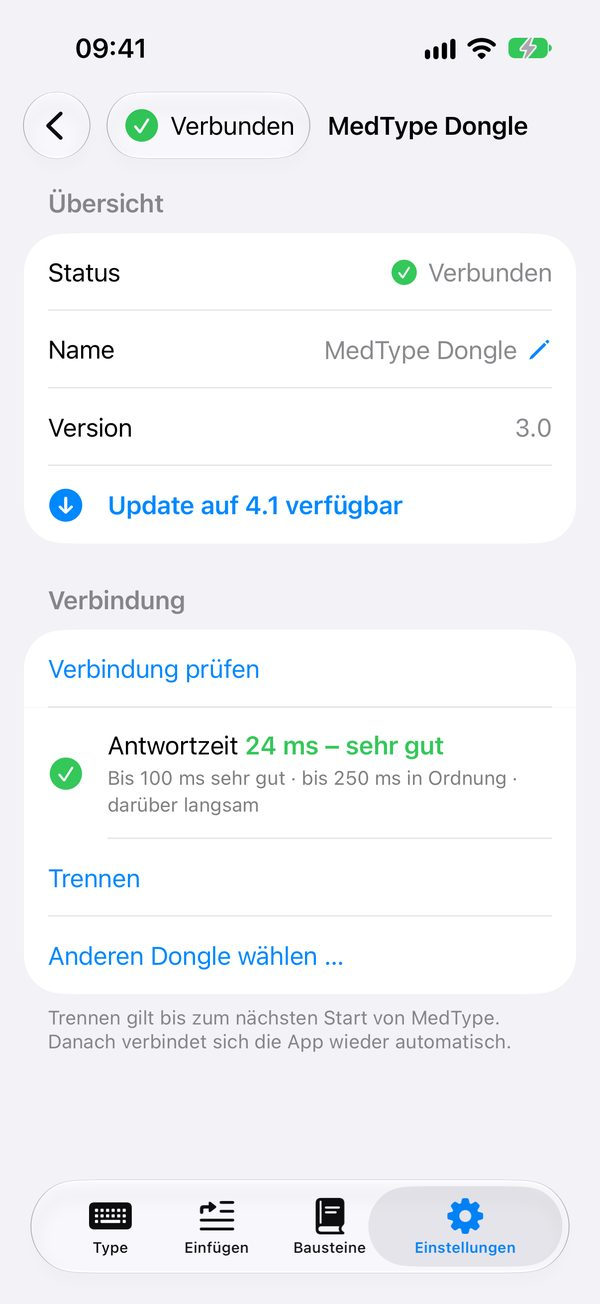
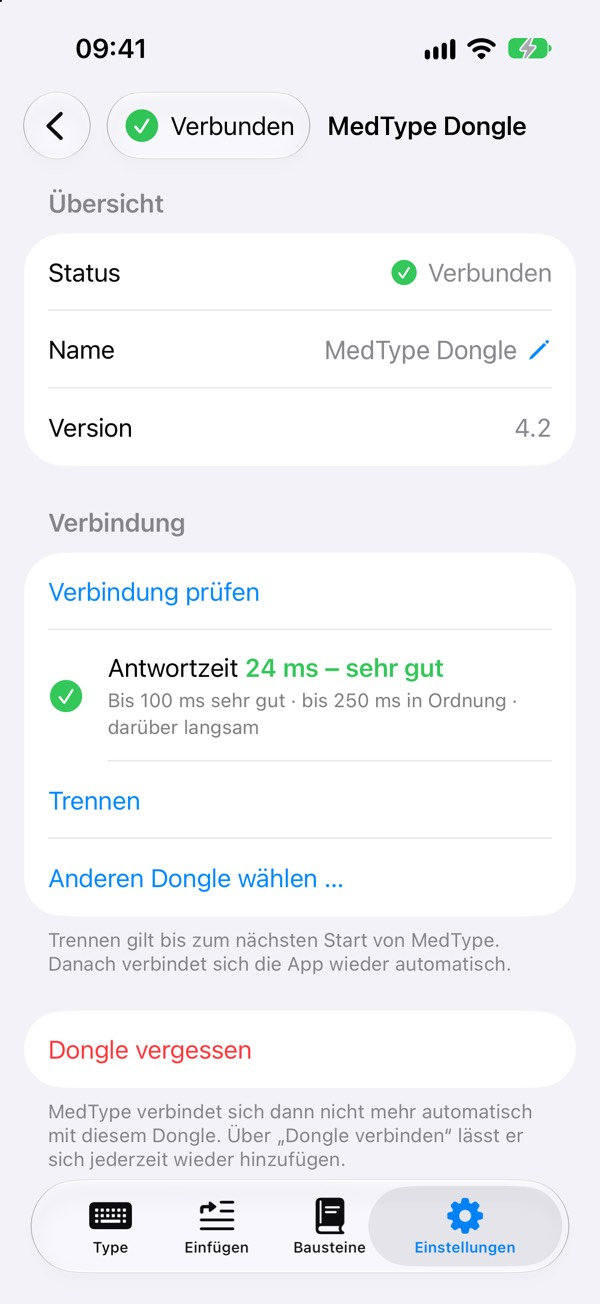
feat: Website auf Stand MedType 1.2.1 und Suche in den häufigen Fragen
- Hilfe, Startseite und Datenschutz an 1.2.1 angeglichen: Die App bringt keine Dongle-Software mehr
  mit (nur Versionsanzeige, Update-Fenster nur im Demo-Modus), neue FAQ „Dongle vergessen“, Hinweis
  zum seltenen Neuverbinden im Hintergrund, Dongle-Anfrage über store@medtype.de (Preis auf Anfrage)
- Version 1.2.1 auf Startseite, in der Hilfe und im Datenschutz
- Bilder 06/07 der Startseite durch die Aufnahmen aus 1.2.1 ersetzt (kein Update-Angebot mehr im Bild)
- Hilfe: Suchfeld filtert die Fragen beim Tippen (Frage und Antwort, „uber“/„ueber“/„über“ gleich),
  Trefferzahl, Hervorhebung, Escape leert; ohne JavaScript bleibt alles sichtbar

diff --git a/hilfe.html b/hilfe.html
@@ -6,14 +6,14 @@
 <meta name="color-scheme" content="light dark">
 <title>Hilfe zu MedType – Smartphone als Tastatur am Windows-PC</title>
 <script>/* Adresse ohne „.html“ anzeigen */(function(){var p=location.pathname;if(/\.html$/.test(p)){history.replaceState(null,"",(/\/index\.html$/.test(p)?p.replace(/index\.html$/,""):p.replace(/\.html$/,""))+location.search+location.hash)}})();</script>
-<meta name="description" content="Hilfe zu MedType: dein Smartphone oder Tablet als Tastatur für den Windows-PC. Koppeln, Diktat, Remote Desktop und Citrix, Dongle-Update und häufige Fragen.">
+<meta name="description" content="Hilfe zu MedType: dein Smartphone oder Tablet als Tastatur für den Windows-PC. Koppeln, Diktat, Remote Desktop und Citrix, Dongle-Version und häufige Fragen.">
 <meta name="theme-color" content="#e0261f" media="(prefers-color-scheme: light)">
 <meta name="theme-color" content="#9e1a1f" media="(prefers-color-scheme: dark)">
 <meta property="og:type" content="website">
 <meta property="og:locale" content="de_DE">
 <meta property="og:site_name" content="MedType">
 <meta property="og:title" content="Hilfe zu MedType – Smartphone als Tastatur am PC">
-<meta property="og:description" content="Voraussetzungen, erste Schritte, Koppeln, Diktat, Remote Desktop und Citrix, Dongle-Update und häufige Fragen zu MedType.">
+<meta property="og:description" content="Voraussetzungen, erste Schritte, Koppeln, Diktat, Remote Desktop und Citrix, Dongle-Version und häufige Fragen zu MedType.">
 <meta property="og:url" content="https://medtype.de/hilfe">
 <meta property="og:image" content="https://medtype.de/assets/og-image.jpg">
 <meta property="og:image:width" content="1200">
@@ -110,6 +110,26 @@
   details > div { padding: 0 0 .6rem; }
   .msg { font-style: italic; }
 
+  /* Suche in den häufigen Fragen (nur mit JavaScript sichtbar) */
+  .faq-search { margin: .6rem 0 .4rem; }
+  .faq-search label { display: block; font-weight: 600; margin-bottom: .35rem; }
+  .faq-search input {
+    width: 100%; box-sizing: border-box;
+    font: inherit; color: var(--text);
+    background: var(--surface);
+    border: 1px solid var(--line); border-radius: var(--radius);
+    padding: .65rem .9rem;
+    -webkit-appearance: none; appearance: none;
+  }
+  .faq-search input::placeholder { color: var(--muted); opacity: 1; }
+  .faq-search input:hover { border-color: var(--muted); }
+  .faq-search input:focus-visible { outline: 3px solid var(--accent); outline-offset: 2px; border-color: var(--accent); }
+  .faq-status { margin: .4rem 0 0; min-height: 1.4em; font-size: .95rem; color: var(--muted); }
+  .faq-filtering details { border-bottom: 1px solid var(--line); margin-bottom: -1px; }
+  .faq-filtering h3 { margin-bottom: .6rem; }
+  [hidden] { display: none !important; }
+  mark { background: var(--accent-soft); color: inherit; border-radius: 3px; padding: 0 .1em; }
+
   @media (max-width: 30rem) {
     .card { padding: 1.15rem 1rem 1rem; }
     table.stack thead { position: absolute; width: 1px; height: 1px; overflow: hidden; clip: rect(0 0 0 0); white-space: nowrap; }
@@ -202,7 +222,8 @@
     <p>Schalte in MedType unter <span class="path">Einstellungen › Demo-Modus</span> den Demo-Modus ein. Tippe dann
       oben links auf den Verbindungsstatus und wähle „Demo-Dongle“. MedType tut jetzt so, als wäre ein Dongle
       verbunden. Was am PC angekommen wäre, siehst du unter <span class="path">Einstellungen › Demo-Modus ›
-      Demo-Ausgabe</span>. Am PC wird dabei nichts getippt.</p>
+      Demo-Ausgabe</span>. Am PC wird dabei nichts getippt. Auch ein simuliertes Dongle-Update lässt sich dort
+      ausprobieren.</p>
     <p>Für den echten Dongle schaltest du den Demo-Modus wieder aus.</p>
   </section>
 
@@ -229,6 +250,12 @@
 
   <section class="card" aria-labelledby="faq">
     <h2 id="faq">Häufige Fragen</h2>
+
+    <div class="faq-search" id="faq-search" hidden>
+      <label for="faq-q">Fragen durchsuchen</label>
+      <input type="search" id="faq-q" placeholder="Fragen durchsuchen …" autocomplete="off" enterkeyhint="search" aria-describedby="faq-status">
+      <p class="faq-status" id="faq-status" role="status" aria-live="polite"></p>
+    </div>
 
     <h3>Allgemein</h3>
 
@@ -349,11 +376,29 @@
     </details>
 
     <details>
+      <summary>Wie nehme ich einen Dongle aus MedType heraus („Dongle vergessen“)?</summary>
+      <div>
+        <p>Öffne <span class="path">Einstellungen</span>, tippe auf die Dongle-Zeile und ganz unten auf das rote
+          „Dongle vergessen“. Bestätige danach die Rückfrage. MedType trennt die Verbindung und verbindet sich danach nicht mehr von
+          selbst mit diesem Dongle, auch nicht nach einem Neustart. Während eines Dongle-Updates geht das nicht.</p>
+        <p>Die Kopplung zwischen Smartphone und Dongle bleibt dabei bestehen. Über „Dongle verbinden …“ wählst du den
+          Dongle jederzeit wieder, ohne Koppelmodus – solange er nicht am Smartphone ignoriert, am Dongle zurückgesetzt
+          oder mit einem anderen Smartphone gekoppelt wurde.</p>
+        <p><strong>Ganz entfernen</strong> (z. B. zum Weitergeben oder für ein anderes Smartphone): Wähle am Smartphone
+          unter <span class="path">Einstellungen › Bluetooth</span> beim Dongle ⓘ und „Dieses Gerät ignorieren“. Halte
+          am Dongle (steckt am PC) die Taste 10 Sekunden gedrückt, bis die LED 3× rot blinkt. Das löscht alle
+          Kopplungen. Danach muss der Dongle beim nächsten Verbinden neu gekoppelt werden.</p>
+      </div>
+    </details>
+
+    <details>
       <summary>Die App zeigt „Verbindung verloren“.</summary>
       <div>
         <p>Der Dongle wurde abgezogen, der PC ist aus oder das Smartphone ist außer Reichweite. MedType verbindet sich von
           selbst neu, sobald der Dongle wieder erreichbar ist. Prüf danach den Text am PC: Was vor dem Abbruch nicht mehr
           angekommen ist, wurde nicht getippt.</p>
+        <p>Läuft MedType im Hintergrund, verbindet es sich aus Rücksicht auf den Akku seltener neu. Öffne dann die App:
+          Sie holt das Verbinden sofort nach.</p>
       </div>
     </details>
 
@@ -430,38 +475,39 @@
       </div>
     </details>
 
-    <h3>Dongle-Update</h3>
+    <h3>Dongle-Version und Update</h3>
 
     <details>
       <summary>Wie aktualisiere ich den Dongle?</summary>
       <div>
-        <p>Neue Software für den Dongle bringt MedType mit; heruntergeladen wird nichts. Gibt es ein Update, steht in
-          den Einstellungen unter der Dongle-Zeile blau „Update auf … verfügbar“.</p>
-        <ol>
-          <li>Dongle im PC eingesteckt und mit MedType verbunden lassen.</li>
-          <li>„Update auf … verfügbar“ antippen und starten.</li>
-          <li>App geöffnet und das Smartphone in der Nähe lassen. Am Ende startet der Dongle neu: Die LED ist dann bis zu
-            etwa 20 Sekunden aus, und Windows meldet die Tastatur kurz ab. Nicht abziehen.</li>
-          <li>MedType prüft danach selbst, ob die neue Software läuft.</li>
-        </ol>
+        <p>Derzeit bringt MedType keine Dongle-Software mit. Mit einem echten Dongle zeigt die App deshalb nur dessen
+          Version an (in der Dongle-Zeile der Einstellungen, z. B. „Verbunden · Version 4.2“, und auf der Dongle-Seite
+          unter „Version“) und bietet kein Update an. Hat dein Dongle eine ältere Software, wird er einmal am PC
+          aktualisiert – schreib uns.</p>
+        <p>Neue Dongle-Software kommt künftig mit einem App-Update und wird dann per Bluetooth aufgespielt. Der Dongle
+          bleibt dabei am PC. Wie das Update abläuft, kannst du im Demo-Modus mit einem simulierten Update ausprobieren:
+          Dongle-Zeile antippen und „Update auf … verfügbar“ wählen.</p>
       </div>
     </details>
 
     <details>
-      <summary>Was bedeuten die Meldungen beim Update?</summary>
+      <summary>Was bedeuten die Meldungen zur Dongle-Software?</summary>
       <div>
+        <p>Die ersten beiden Meldungen können mit einem echten Dongle erscheinen. Die übrigen gehören zum Fenster
+          „Dongle-Update“, das es derzeit nur im Demo-Modus gibt und das für künftige Dongle-Software gilt.</p>
         <div class="table-wrap">
           <table class="stack">
             <thead><tr><th scope="col">Meldung</th><th scope="col">Was du tust</th></tr></thead>
             <tbody>
+              <tr><td>„Funk-Updates gibt es ab Dongle-Version 3 …“</td><td>Dein Dongle hat eine sehr alte Software
+                (Version 2 oder älter). Er muss einmal am PC aktualisiert werden – schreib uns. Schon aktualisiert?
+                Schalte Bluetooth am Smartphone kurz aus und wieder ein oder steck den Dongle neu ein.</td></tr>
+              <tr><td>„App und Dongle passen nicht zusammen. Der Dongle braucht ein Update.“</td><td>Die Software des
+                Dongles ist zu alt für diese Funktion. Der Dongle wird einmal am PC aktualisiert – schreib uns.</td></tr>
               <tr><td>„Fast fertig“</td><td>Die neue Software läuft, ist aber noch nicht bestätigt. Lass den Dongle
                 eingesteckt und mit MedType verbunden; dann bestätigt er sich selbst.</td></tr>
               <tr><td>„Update wurde zurückgenommen“</td><td>Die bisherige Software läuft wieder. Dongle einstecken, MedType
                 geöffnet lassen und das Update erneut starten.</td></tr>
-              <tr><td>„Funk-Updates gibt es ab Dongle-Version 3 …“</td><td>Dein Dongle ist zu alt für Updates per App.
-                Er muss einmal am PC aktualisiert werden – schreib uns.</td></tr>
-              <tr><td>„App und Dongle passen nicht zusammen. Der Dongle braucht ein Update.“</td><td>Den Dongle
-                aktualisieren, wie oben beschrieben.</td></tr>
               <tr><td>„Der Dongle tippt gerade noch …“</td><td>Warten, bis das Tippen fertig ist, dann starten.</td></tr>
             </tbody>
           </table>
@@ -494,7 +540,9 @@
     <details>
       <summary>Woher bekomme ich einen MedType-Dongle?</summary>
       <div>
-        <p>Schreib uns an die E-Mail-Adresse unten.</p>
+        <p>Über „Dongle anfragen“ auf der <a href="./">Startseite</a> oder per E-Mail an
+          <a href="mailto:store@medtype.de?subject=Dongle%20f%C3%BCr%20MedType">store@medtype.de</a>. Den Preis nennen
+          wir dir auf Anfrage.</p>
       </div>
     </details>
   </section>
@@ -509,7 +557,7 @@
       <span class="path">Einstellungen › Info</span>.</div>
   </section>
 
-  <p class="stand">Stand: 15. Oktober 2026 · MedType 1.2</p>
+  <p class="stand">Stand: 4. November 2026 · MedType 1.2.1</p>
 
 </main>
 
@@ -528,5 +576,108 @@
       Apple Inc. Windows ist eine Marke der Microsoft Corporation. Bluetooth ist eine Marke der Bluetooth SIG, Inc.</p>
   </div>
 </footer>
+<script>
+/* Suche in den häufigen Fragen: filtert beim Tippen, ohne Bibliotheken. */
+(function () {
+  var box = document.getElementById("faq-search");
+  var input = document.getElementById("faq-q");
+  var status = document.getElementById("faq-status");
+  var section = document.querySelector('section[aria-labelledby="faq"]');
+  if (!box || !input || !status || !section) return;
+  /* Vor dem ersten norm()-Aufruf festlegen (die Fragen werden gleich unten durchsucht). */
+  var MAP = { "ä": "ae", "ö": "oe", "ü": "ue", "ß": "ss" };
+  var items = Array.prototype.slice.call(section.querySelectorAll("details")).map(function (d) {
+    var s = d.querySelector("summary");
+    return { el: d, summary: s, title: s.textContent, normAll: norm(d.textContent).text, normKurz: norm(d.textContent, true).text, wasOpen: d.open };
+  });
+  var heads = Array.prototype.slice.call(section.querySelectorAll("h3"));
+  var total = items.length;
+
+  /* Kleinschreibung; lang: ä=ae, ö=oe, ü=ue, ß=ss; kurz: ä=a, ö=o, ü=u, ß=ss (damit „uber“ auch „über“ findet).
+     map[i] = Position des Zeichens im Original (1:1, Leerraum bleibt erhalten) */
+  function norm(str, kurz) {
+    var out = "", map = [];
+    for (var i = 0; i < str.length; i++) {
+      var c = str.charAt(i).toLowerCase();
+      var r = c === "ß" ? "ss" : (!kurz && MAP[c]) || c.normalize("NFD").replace(/[\u0300-\u036f]/g, "");
+      for (var j = 0; j < r.length; j++) { out += r.charAt(j); map.push(i); }
+    }
+    return { text: out, map: map };
+  }
+  /* Suchbegriffe in beiden Schreibweisen; lang[i] und kurz[i] gehören zum selben Wort */
+  function terms(q) {
+    return { lang: norm(q).text.split(/\s+/).filter(Boolean), kurz: norm(q, true).text.split(/\s+/).filter(Boolean) };
+  }
+  function setTitle(item, ts) {
+    var s = item.summary, t = item.title;
+    while (s.firstChild) s.removeChild(s.firstChild);
+    if (!ts.lang.length) { s.appendChild(document.createTextNode(t)); return; }
+    var flags = [], i, k;
+    for (i = 0; i < t.length; i++) flags.push(false);
+    [[norm(t), ts.lang], [norm(t, true), ts.kurz]].forEach(function (paar) {
+      var n = paar[0];
+      paar[1].forEach(function (term) {
+        var from = 0, at;
+        while ((at = n.text.indexOf(term, from)) !== -1) {
+          for (k = at; k < at + term.length; k++) flags[n.map[k]] = true;
+          from = at + term.length;
+        }
+      });
+    });
+    var buf = "", on = false;
+    function flush() {
+      if (!buf) return;
+      var node = document.createTextNode(buf);
+      if (on) { var m = document.createElement("mark"); m.appendChild(node); s.appendChild(m); }
+      else s.appendChild(node);
+      buf = "";
+    }
+    for (i = 0; i < t.length; i++) {
+      if (flags[i] !== on) { flush(); on = flags[i]; }
+      buf += t.charAt(i);
+    }
+    flush();
+  }
+  function apply() {
+    var ts = terms(input.value), shown = [];
+    var leer = !ts.lang.length;
+    section.classList.toggle("faq-filtering", !leer);
+    items.forEach(function (it) {
+      var ok = ts.lang.every(function (t, i) {
+        return it.normAll.indexOf(t) !== -1 || it.normKurz.indexOf(ts.kurz[i]) !== -1;
+      });
+      it.el.hidden = !ok;
+      if (ok) shown.push(it);
+      setTitle(it, ok ? ts : { lang: [], kurz: [] });
+    });
+    items.forEach(function (it) { if (leer) it.el.open = it.wasOpen; else if (!it.el.hidden) it.el.open = shown.length === 1; });
+    heads.forEach(function (h) {
+      var n = h.nextElementSibling, any = false;
+      while (n && n.tagName !== "H3") { if (n.tagName === "DETAILS" && !n.hidden) any = true; n = n.nextElementSibling; }
+      h.hidden = !any;
+    });
+    if (leer) status.textContent = "";
+    else if (!shown.length) {
+      status.textContent = "Keine passende Frage gefunden – ";
+      var a = document.createElement("a");
+      a.href = "mailto:support@medtype.de"; a.textContent = "support@medtype.de";
+      status.appendChild(a);
+    } else status.textContent = shown.length + " von " + total + " Fragen";
+  }
+  items.forEach(function (it) {
+    it.el.addEventListener("toggle", function () { if (!input.value.trim()) it.wasOpen = it.el.open; });
+  });
+  input.addEventListener("input", apply);
+  input.addEventListener("keydown", function (e) {
+    if (e.key === "Escape" && input.value) { input.value = ""; apply(); }
+  });
+  try {
+    var q = new URLSearchParams(location.search).get("q");
+    if (q) input.value = q.slice(0, 100);
+  } catch (e) {}
+  box.hidden = false;
+  if (input.value) apply();
+})();
+</script>
 </body>
 </html>

diff --git a/index.html b/index.html
@@ -74,7 +74,7 @@
           </a>
           <a class="hero-link" href="/hilfe">Zur Hilfe <span aria-hidden="true">→</span></a>
         </div>
-        <p class="status"><span class="status-dot" aria-hidden="true"></span>Ab jetzt im App Store erhältlich</p>
+        <p class="status"><span class="status-dot" aria-hidden="true"></span>Ab jetzt im App Store erhältlich · Version 1.2.1</p>
         <a class="app-store-badge" href="https://apps.apple.com/de/app/medtype/id6821332885"
           style="display:inline-block;margin-top:.6rem" aria-label="MedType im App Store laden">
           <img src="assets/app-store-de.svg" alt="Laden im App Store" width="144" height="48"
@@ -261,26 +261,26 @@
             <picture>
               <source type="image/webp" srcset="assets/06-dongle.webp">
               <img src="assets/06-dongle.jpg" width="600" height="1304" loading="lazy" decoding="async"
-                alt="Dongle-Seite in den Einstellungen: Status „Verbunden“, Name, Version 3.0, der Hinweis „Update auf 4.1 verfügbar“ und „Verbindung prüfen“ mit der Antwortzeit 24 ms – sehr gut.">
+                alt="Dongle-Seite in den Einstellungen: Status „Verbunden“, Name „MedType Dongle“, Version 4.2, „Verbindung prüfen“ mit der Antwortzeit 24 ms – sehr gut, und darunter „Dongle vergessen“.">
             </picture>
           </div>
           <div class="phone">
             <picture>
-              <source type="image/webp" srcset="assets/07-update.webp">
-              <img src="assets/07-update.jpg" width="600" height="1304" loading="lazy" decoding="async"
-                alt="Fenster „Dongle-Update“ von Version 3.0 auf 4.1 mit den Hinweisen „Dongle eingesteckt lassen“ und „App geöffnet lassen“ und dem Knopf „Update starten“.">
+              <source type="image/webp" srcset="assets/07-verbinden.webp">
+              <img src="assets/07-verbinden.jpg" width="600" height="1304" loading="lazy" decoding="async"
+                alt="Fenster „Dongle verbinden“: der aktuelle Dongle „Verbunden“, darunter „Dongles in der Nähe“ mit Signalstärke und dem Hinweis, zum Koppeln die Taste am Dongle 3 Sekunden zu halten.">
             </picture>
           </div>
         </div>
       </figure>
       <div class="feature-copy">
-        <p class="kicker">Verbindung und Dongle-Updates</p>
-        <h2 class="display" id="verbindung">Verbindung im Blick, Updates per Bluetooth.</h2>
+        <p class="kicker">Verbindung und Dongles</p>
+        <h2 class="display" id="verbindung">Verbindung im Blick, Dongles im Griff.</h2>
         <p>Gekoppelt wird einmal per Tastendruck am Dongle, danach verbindet sich MedType beim Start von selbst.
           „Verbindung prüfen“ zeigt dir auf einen Blick, wie schnell der Dongle antwortet.</p>
-        <p>Neue Software für den Dongle bringt die App gleich mit. Du spielst sie per Bluetooth auf, der Dongle
-          bleibt dabei am PC. Und jeder Dongle bekommt auf Wunsch einen eigenen Namen, zum Beispiel „PC 1“ oder
-          „Laptop“.</p>
+        <p>Jeder Dongle bekommt auf Wunsch einen eigenen Namen, zum Beispiel „PC 1“ oder „Laptop“. Nicht mehr
+          benötigte Dongles nimmst du mit „Dongle vergessen“ aus der App. Neue Dongle-Software kommt künftig mit einem
+          App-Update und wird per Bluetooth aufgespielt – der Dongle bleibt dabei am PC.</p>
       </div>
     </section>
 
@@ -291,7 +291,7 @@
         <li><strong>Pause nach Zeilenumbruch.</strong> Für Programme, die nach Enter einen Moment brauchen.</li>
         <li><strong>Vier App-Icons.</strong> Zur Wahl in den Einstellungen.</li>
         <li><strong>Hell und dunkel.</strong> Im Hoch- und Querformat, mit VoiceOver bedienbar.</li>
-        <li><strong>Mehrere Dongles.</strong> Für mehrere PCs – gewechselt wird mit wenigen Tipps in der App.</li>
+        <li><strong>Mehrere Dongles.</strong> Für mehrere PCs – gewechselt wird mit wenigen Tipps in der App, nicht mehr benötigte lassen sich vergessen.</li>
         <li><strong>Demo-Modus.</strong> Zum Ausprobieren ohne Dongle.</li>
       </ul>
     </section>

diff --git a/datenschutz.html b/datenschutz.html
@@ -147,7 +147,7 @@
       <li><a href="#verantwortlich">Verantwortlich</a></li>
       <li><a href="#geraet">Was auf deinem Gerät gespeichert wird</a></li>
       <li><a href="#bluetooth">Bluetooth und Dongle</a></li>
-      <li><a href="#update">Dongle-Update</a></li>
+      <li><a href="#update">Dongle-Version und Update</a></li>
       <li><a href="#diktat">Tastatur und Diktat</a></li>
       <li><a href="#keine">Was MedType nicht tut</a></li>
       <li><a href="#apple">App Store und TestFlight</a></li>
@@ -181,13 +181,14 @@
           <tr><td>Einstellungen (z. B. Tippgeschwindigkeit, Pause nach Zeilenumbruch, Haptik, Demo-Modus, App-Icon)</td>
             <td>Damit die App so arbeitet, wie du es eingestellt hast.</td></tr>
           <tr><td>Der zuletzt verbundene Dongle (Kennung und Name) und seine Software-Version</td><td>Damit sich MedType
-            beim Start automatisch verbindet und dir passende Updates anbietet.</td></tr>
+            beim Start automatisch verbindet und die Version anzeigen kann.</td></tr>
         </tbody>
       </table>
     </div>
     <p>Der Verlauf in „Live tippen“ und die „Demo-Ausgabe“ liegen nur im Arbeitsspeicher und sind weg, sobald die App
       beendet wird.</p>
-    <p>Du löschst die Daten, indem du Bausteine und Entwürfe in der App löschst oder die App entfernst. Nutzt du
+    <p>Du löschst die Daten, indem du Bausteine und Entwürfe in der App löschst oder die App entfernst. Mit „Dongle
+      vergessen“ (Einstellungen › Dongle) löscht MedType den gemerkten Dongle samt Software-Version. Nutzt du
       Backups deines Smartphones (iCloud-Backup oder Backup am Computer), sichert iOS die App-Daten wie bei jeder anderen
       App mit. Das steuerst du in den Einstellungen deines Smartphones; MedType hat darauf keinen Einfluss.</p>
   </section>
@@ -210,11 +211,12 @@
   </section>
 
   <section class="card" aria-labelledby="update">
-    <h2 id="update"><span class="no">4</span>Dongle-Update</h2>
-    <p>Neue Software für den Dongle ist Teil der App. Für ein Update lädt MedType nichts aus dem Internet, sondern
-      überträgt die mitgelieferte Datei per Bluetooth auf deinen Dongle. Dazu fragt die App die Software-Version des
-      Dongles ab und merkt sie sich auf deinem Gerät.</p>
-    <p>Für das Update nutzt MedType eine Open-Source-Programmbibliothek von Nordic Semiconductor. Sie läuft nur auf
+    <h2 id="update"><span class="no">4</span>Dongle-Version und Update</h2>
+    <p>MedType fragt die Software-Version deines Dongles ab, zeigt sie an und merkt sie sich auf deinem Gerät. Die App
+      bringt derzeit keine Dongle-Software mit und bietet für einen echten Dongle kein Update an. Kommt Dongle-Software
+      künftig mit einem App-Update, lädt MedType auch dann nichts aus dem Internet, sondern überträgt die in der App
+      enthaltene Datei per Bluetooth auf deinen Dongle.</p>
+    <p>Dafür enthält MedType eine Open-Source-Programmbibliothek von Nordic Semiconductor. Sie läuft nur auf
       deinem Gerät und sendet keine Daten an Nordic Semiconductor oder andere.</p>
   </section>
 
@@ -307,7 +309,7 @@
     <h2 id="aenderungen"><span class="no">12</span>Änderungen</h2>
     <p>Ändert sich MedType so, dass diese Erklärung nicht mehr passt, passen wir sie an. Es gilt die Fassung auf
       dieser Seite.</p>
-    <p class="muted">Stand: 4. November 2026 · gilt für MedType ab 1.2</p>
+    <p class="muted">Stand: 4. November 2026 · gilt für MedType ab 1.2.1</p>
   </section>
 
 </main>
